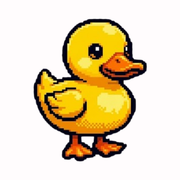
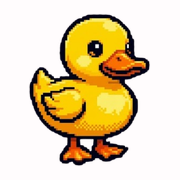
fix: 화면 폭, 히어로 비율, 하트 겹침, 지도 크기, 파비콘, 로고 글꼴
- 앱 폭 640 -> 480. 데스크톱에서 한 줄이 너무 길어 앱이 아니라 문서로 읽혔다
- 1위 카드 168 -> 236px. 608x168 은 3.6:1 이라 사진이 띠처럼 잘렸다
- 순위 레일 카드 100x100 -> 124x140. 1위 옆에서 너무 작았다
- 하트가 마감 표기를 덮고 있었다. 카드 머리에 하트 자리만큼 여백을 준다
- 지도 최소 높이 300 -> 460px. 작으면 핀 사이 거리가 안 읽혀 동선을 못 잡는다
- 푸터에 위 여백 56px. 고지 문구가 첫 화면에 붙어 본문처럼 읽혔다
- 지도 핀 앞칸을 항상 유형으로. 묶였을 때만 '2곳' 이 되니 옆 핀은 '생카',
  이 핀은 '2곳' 이라 같은 자리에 다른 종류의 말이 들어갔다. 개수는 뒤칸의
  '외 N' 이 이미 말한다
- 검색 배너에서 질의와 건수가 붙어 '정국 21곳' 으로 읽혔다. 가운뎃점을 넣는다
- 파비콘 배경을 투명으로, 여백을 52 -> 14 로 줄여 오리를 키웠다.
  애플 아이콘만 배경을 채운다. iOS 홈화면은 투명을 검정으로 깔아버린다
- 로고 글꼴 Jua. 본문에는 쓰지 않는다. 본문까지 이걸로 깔면 정보를 읽는
  화면이 놀이 화면이 된다

Changed region(s): [[0.1389, 0.0556, 0.8333, 0.9444], [0.5278, 0.5833, 0.5833, 0.6111]]

diff --git a/src/app/globals.css b/src/app/globals.css
@@ -70,7 +70,8 @@ a { color: inherit; }
   min-height: 100dvh;
   display: flex;
   flex-direction: column;
-  max-width: 640px;          /* 모바일 우선. 데스크톱은 중앙 정렬 */
+  /* 모바일 우선. 640 은 데스크톱에서 한 줄이 너무 길어 앱이 아니라 문서로 읽힌다 */
+  max-width: 480px;
   margin-inline: auto;
   background: var(--bg);
   /* 하단 탭 높이 + 홈 인디케이터만큼 본문을 띄운다 */
@@ -119,6 +120,8 @@ a { color: inherit; }
 }
 
 .footer {
+  /* 고지 문구다. 첫 화면에 붙어 있으면 본문처럼 읽힌다 */
+  margin-top: 56px;
   padding: 16px;
   border-top: 1px solid var(--border);
   color: var(--text-mute);
@@ -277,6 +280,9 @@ a { color: inherit; }
 }
 
 .card__head { display: flex; align-items: center; gap: 6px; }
+/* 하트가 오른쪽 위에 떠 있다. 자리를 비워두지 않으면 마감 표기를 덮는다 */
+.card--row .card__head { padding-right: 40px; }
+.card--tile .card__head { padding-right: 34px; }
 
 .badge {
   font-size: 12px;
@@ -669,7 +675,8 @@ a { color: inherit; }
 .mapcanvaswrap {
   position: relative;
   flex: 1;
-  min-height: 300px;
+  /* 지도는 이 화면의 본문이다. 작으면 핀 사이 거리가 안 읽혀 동선을 못 잡는다 */
+  min-height: 460px;
 }
 
 /* z-index 를 명시해 쌓임 맥락(stacking context)을 만든다.
@@ -998,6 +1005,7 @@ a { color: inherit; }
 }
 
 .mapsearch__q { font-size: 14px; font-weight: 700; min-width: 0; overflow: hidden; text-overflow: ellipsis; white-space: nowrap; }
+.mapsearch__n::before { content: '·'; margin-right: 6px; opacity: 0.55; }
 .mapsearch__n { font-size: 13px; font-weight: 600; opacity: 0.8; flex: 0 0 auto; }
 .mapsearch__clear {
   margin-left: auto;
@@ -1362,9 +1370,11 @@ a { color: inherit; }
 .logo { display: inline-flex; align-items: center; gap: 7px; }
 .logo__mark { display: block; height: 32px; width: auto; image-rendering: pixelated; }
 .logo__word {
-  font-size: 22px;
-  font-weight: 800;
-  letter-spacing: -0.04em;
+  font-family: var(--font-logo), 'Apple SD Gothic Neo', sans-serif;
+  font-size: 25px;
+  font-weight: 400;
+  letter-spacing: -0.01em;
+  line-height: 1;
   color: var(--accent-ink);
 }
 
@@ -1458,7 +1468,7 @@ a { color: inherit; }
   display: block;
   width: calc(100% - var(--gutter) * 2);
   margin: 0 var(--gutter) 12px;
-  height: 168px;
+  height: 236px;
   padding: 0;
   border: 0;
   border-radius: var(--radius);
@@ -1508,7 +1518,7 @@ a { color: inherit; }
   color: #ffffff;
 }
 .rank__name {
-  font-size: 25px;
+  font-size: 27px;
   font-weight: 800;
   letter-spacing: -0.04em;
   line-height: 1.1;
@@ -1532,8 +1542,8 @@ a { color: inherit; }
 .rank__card {
   position: relative;
   display: block;
-  width: 100px;
-  height: 100px;
+  width: 124px;
+  height: 140px;
   padding: 0;
   border: 0;
   border-radius: var(--radius-sm);
@@ -1569,7 +1579,7 @@ a { color: inherit; }
   color: #ffffff;
 }
 .rank__cardname {
-  font-size: 14.5px;
+  font-size: 15px;
   font-weight: 800;
   letter-spacing: -0.03em;
   line-height: 1.15;

diff --git a/src/app/layout.tsx b/src/app/layout.tsx
@@ -1,7 +1,17 @@
 import type { Metadata, Viewport } from 'next'
+import { Jua } from 'next/font/google'
 import './globals.css'
 import AnalyticsScripts from '@/components/AnalyticsScripts'
 import { siteUrl } from '@/lib/site'
+
+/**
+ * 로고 전용 글꼴. 본문에는 쓰지 않는다.
+ * 본문까지 이걸로 깔면 정보를 읽는 화면이 놀이 화면이 된다.
+ * 글자 세 개만 쓰므로 한글 서브셋 중 필요한 조각만 내려온다.
+ */
+// subsets 를 지정하지 않는다. next/font 타입은 Jua 에 latin 만 열어두는데
+// 실제로 필요한 건 한글 글리프다. preload 를 끄면 전체를 받아 쓴다
+const jua = Jua({ weight: '400', display: 'swap', variable: '--font-logo', preload: false })
 
 const TITLE = '덕모임 - 생카·팝업 정보 및 모임'
 const DESCRIPTION =
@@ -55,7 +65,7 @@ export const viewport: Viewport = {
 export default function RootLayout({ children }: { children: React.ReactNode }) {
   return (
     <html lang="ko">
-      <body>
+      <body className={jua.variable}>
         {children}
         <AnalyticsScripts />
       </body>

diff --git a/src/components/MapView.tsx b/src/components/MapView.tsx
@@ -252,8 +252,13 @@ export default function MapView({ events, today, filter, onFilter, onOpen }: Pro
       el.className = `pin ${kindClass}${count > 1 ? ' pin--cluster' : ''}`
       el.innerHTML =
         '<span class="pin__kind"></span><span class="pin__name"></span><span class="pin__tail"></span>'
+      // 앞칸은 항상 유형이다. 묶였을 때만 '2곳' 으로 바뀌면 옆 핀은 '생카',
+      // 이 핀은 '2곳' 이라 같은 자리에 다른 종류의 말이 들어가 읽는 축이 흔들린다.
+      // 개수는 뒤칸의 '외 N' 이 이미 말해준다
       el.querySelector('.pin__kind')!.textContent =
-        count > 1 ? `${count}곳` : EVENT_KIND_LABELS[head.kind]
+        kinds.size === 1
+          ? EVENT_KIND_LABELS[head.kind]
+          : [...kinds].map((k) => EVENT_KIND_LABELS[k]).join('·')
       // 대상명은 사용자 데이터라 textContent 로 넣는다
       el.querySelector('.pin__name')!.textContent =
         count > 1 ? `${head.subject} 외 ${count - 1}` : head.subject
